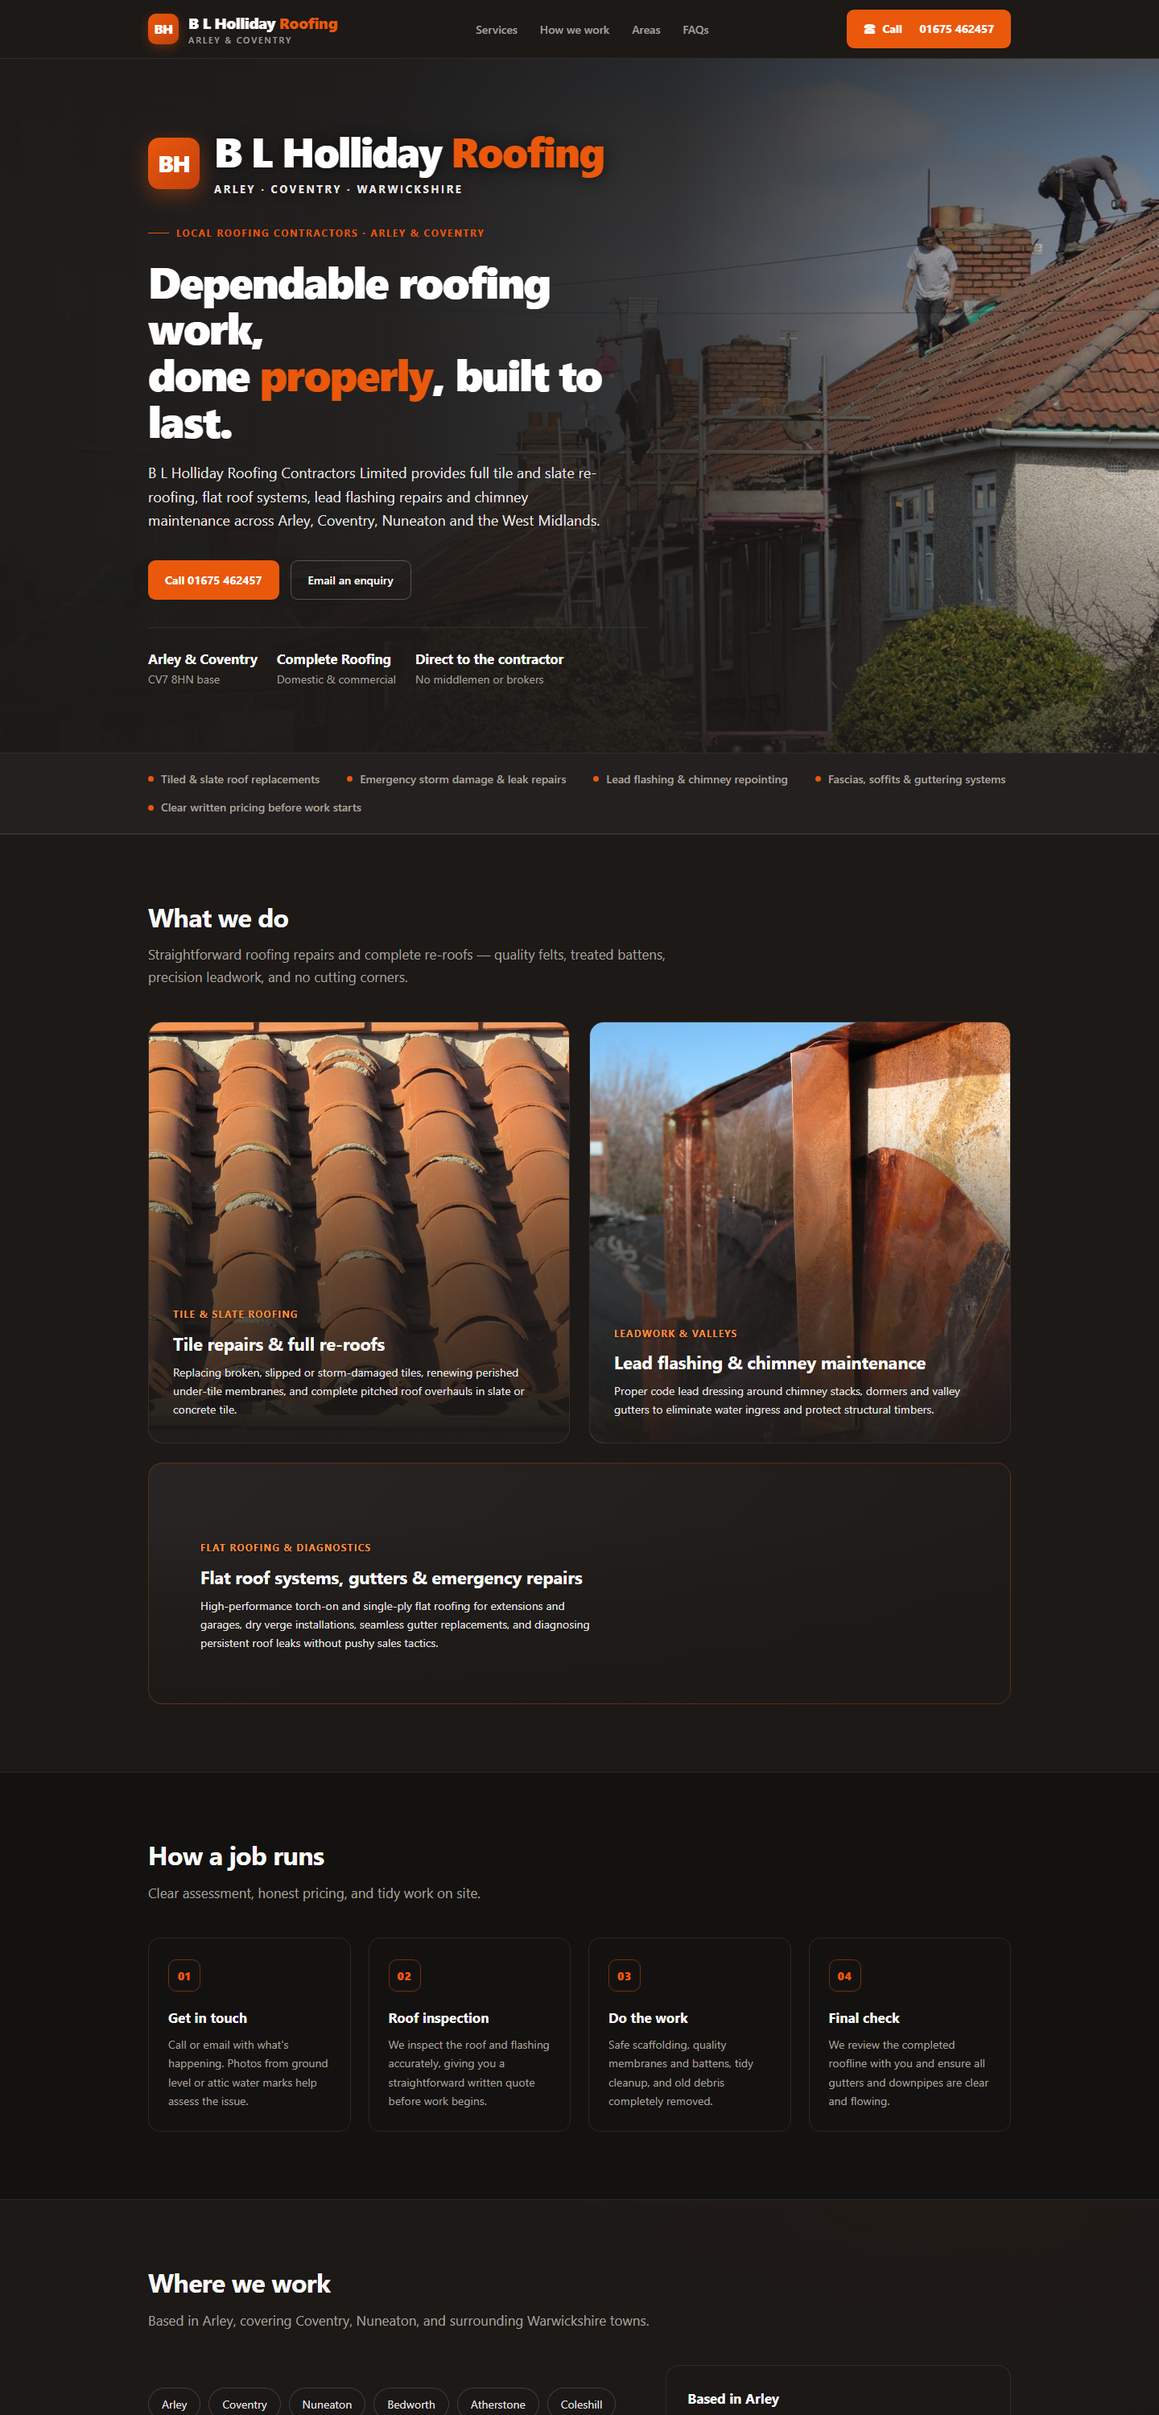
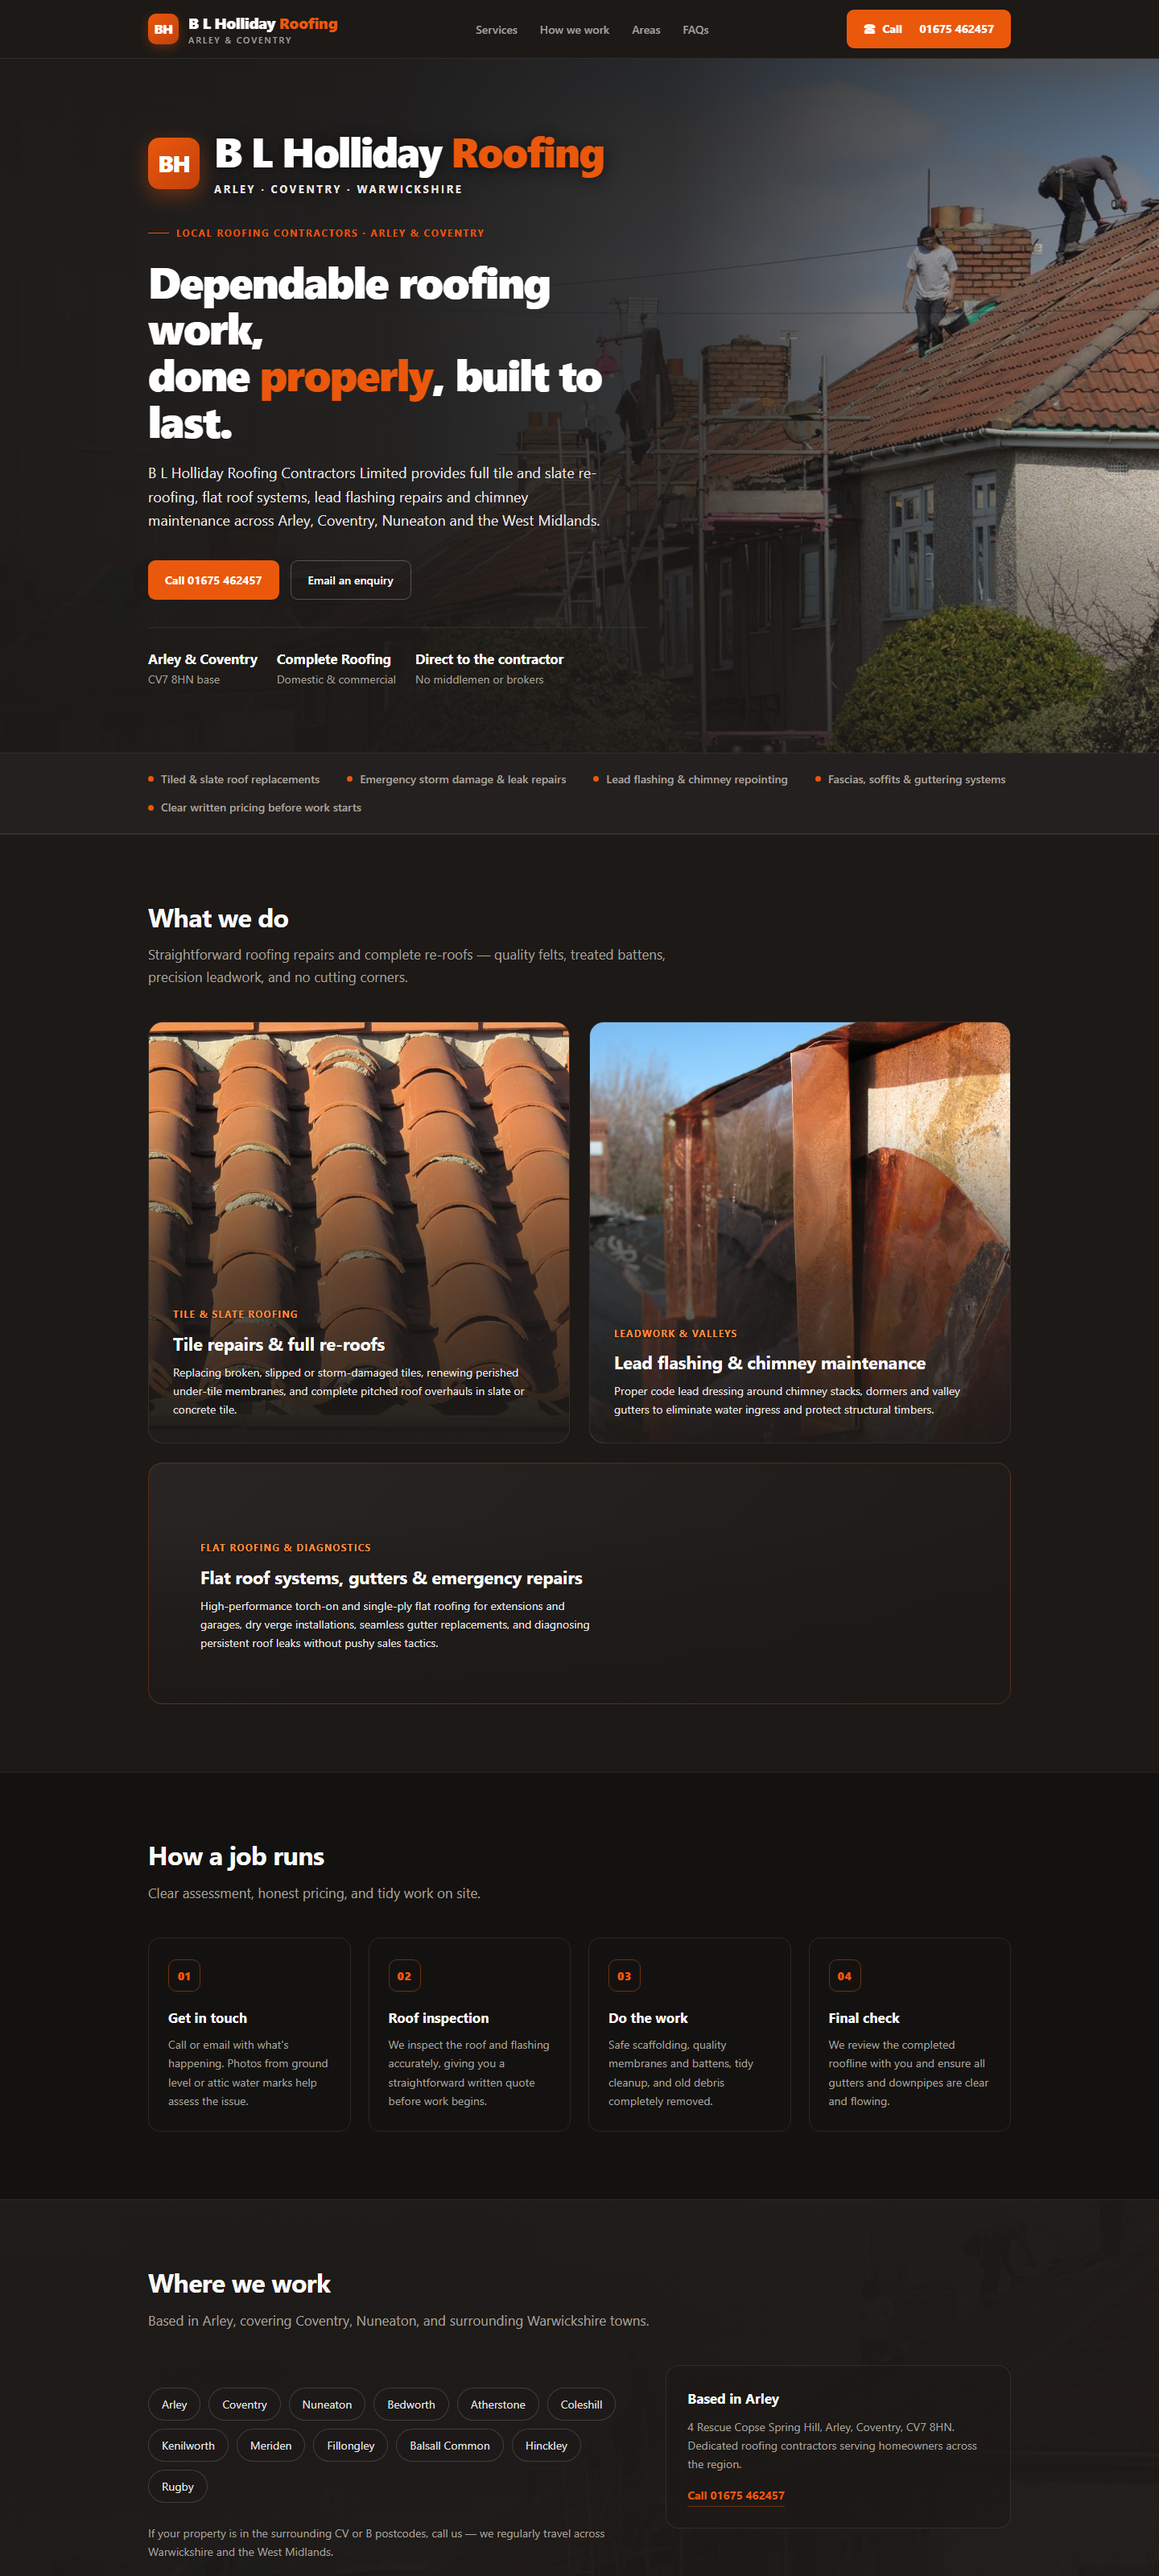
style(ambush): restore signature faded photo background with radial dark overlay across coverage sections

diff --git a/bl-holliday-roofing-20261116/index.html b/bl-holliday-roofing-20261116/index.html
@@ -103,9 +103,9 @@ h2{font-size:clamp(1.6rem,3.2vw,2rem);line-height:1.15;letter-spacing:-.02em;mar
 .step h3{font-size:1.0625rem;font-weight:700;margin-bottom:8px}
 .step p{color:var(--muted);font-size:var(--fs-small)}
 
-/* ---------- COVERAGE ---------- */
-.coverage{position:relative;isolation:isolate;overflow:hidden}
-.coverage:before{content:"";position:absolute;inset:0;z-index:-2;background:radial-gradient(1200px 520px at 78% 0%,rgba(234,88,12,.12),transparent 62%),linear-gradient(180deg,#1C1917,#141210)}
+/* ---------- COVERAGE : faded photo behind whole section ---------- */
+.coverage{position:relative;isolation:isolate;overflow:hidden;border-top:1px solid var(--border)}
+.coverage:before{content:"";position:absolute;inset:0;z-index:-2;background-image:url("./assets/hero.jpg");background-size:cover;background-position:center 40%;opacity:.18}
 .coverage:after{content:"";position:absolute;inset:0;z-index:-1;background:radial-gradient(120% 90% at 20% 40%,rgba(28,25,23,.97) 0%,rgba(28,25,23,.88) 45%,rgba(28,25,23,.74) 100%)}
 .areas{display:flex;flex-wrap:wrap;gap:10px;margin-top:28px;list-style:none}
 .areas li{border:1px solid rgba(255,255,255,.16);border-radius:99px;padding:8px 16px;font-size:var(--fs-small);color:#E7E5E4;background:rgba(28,25,23,.46)}

diff --git a/dbritain-home-improvements-20261116/index.html b/dbritain-home-improvements-20261116/index.html
@@ -103,9 +103,9 @@ h2{font-size:clamp(1.6rem,3.2vw,2rem);line-height:1.15;letter-spacing:-.02em;mar
 .step h3{font-size:1.0625rem;font-weight:700;margin-bottom:8px}
 .step p{color:var(--muted);font-size:var(--fs-small)}
 
-/* ---------- COVERAGE ---------- */
-.coverage{position:relative;isolation:isolate;overflow:hidden}
-.coverage:before{content:"";position:absolute;inset:0;z-index:-2;background:radial-gradient(1200px 520px at 78% 0%,rgba(2,132,199,.12),transparent 62%),linear-gradient(180deg,#0F172A,#080D18)}
+/* ---------- COVERAGE : faded photo behind whole section ---------- */
+.coverage{position:relative;isolation:isolate;overflow:hidden;border-top:1px solid var(--border)}
+.coverage:before{content:"";position:absolute;inset:0;z-index:-2;background-image:url("./assets/hero.jpg");background-size:cover;background-position:center 35%;opacity:.18}
 .coverage:after{content:"";position:absolute;inset:0;z-index:-1;background:radial-gradient(120% 90% at 20% 40%,rgba(15,23,42,.97) 0%,rgba(15,23,42,.88) 45%,rgba(15,23,42,.74) 100%)}
 .areas{display:flex;flex-wrap:wrap;gap:10px;margin-top:28px;list-style:none}
 .areas li{border:1px solid rgba(255,255,255,.16);border-radius:99px;padding:8px 16px;font-size:var(--fs-small);color:#CBD5E1;background:rgba(15,23,42,.46)}

diff --git a/heat-zone-20261116/index.html b/heat-zone-20261116/index.html
@@ -103,9 +103,9 @@ h2{font-size:clamp(1.6rem,3.2vw,2rem);line-height:1.15;letter-spacing:-.02em;mar
 .step h3{font-size:1.0625rem;font-weight:700;margin-bottom:8px}
 .step p{color:var(--muted);font-size:var(--fs-small)}
 
-/* ---------- COVERAGE ---------- */
-.coverage{position:relative;isolation:isolate;overflow:hidden}
-.coverage:before{content:"";position:absolute;inset:0;z-index:-2;background:radial-gradient(1200px 520px at 78% 0%,rgba(239,68,68,.12),transparent 62%),linear-gradient(180deg,#0F172A,#090E17)}
+/* ---------- COVERAGE : faded photo behind whole section ---------- */
+.coverage{position:relative;isolation:isolate;overflow:hidden;border-top:1px solid var(--border)}
+.coverage:before{content:"";position:absolute;inset:0;z-index:-2;background-image:url("./assets/hero.jpg");background-size:cover;background-position:center 40%;opacity:.18}
 .coverage:after{content:"";position:absolute;inset:0;z-index:-1;background:radial-gradient(120% 90% at 20% 40%,rgba(15,23,42,.97) 0%,rgba(15,23,42,.88) 45%,rgba(15,23,42,.74) 100%)}
 .areas{display:flex;flex-wrap:wrap;gap:10px;margin-top:28px;list-style:none}
 .areas li{border:1px solid rgba(255,255,255,.16);border-radius:99px;padding:8px 16px;font-size:var(--fs-small);color:#CBD5E1;background:rgba(15,23,42,.46)}

diff --git a/walsall-plumbing-and-gas-20261116/index.html b/walsall-plumbing-and-gas-20261116/index.html
@@ -96,9 +96,9 @@ section{padding:84px 0}
 .step h3{font-size:1.0625rem;font-weight:700;margin-bottom:8px}
 .step p{color:var(--muted);font-size:var(--fs-small)}
 
-/* ---------- COVERAGE : faded wash, no photo ---------- */
-.coverage{position:relative;isolation:isolate;overflow:hidden}
-.coverage:before{content:"";position:absolute;inset:0;z-index:-2;background:radial-gradient(1200px 520px at 78% 0%,rgba(59,130,246,.12),transparent 62%),linear-gradient(180deg,#0B1329,#080E1F)}
+/* ---------- COVERAGE : faded photo behind whole section ---------- */
+.coverage{position:relative;isolation:isolate;overflow:hidden;border-top:1px solid var(--border)}
+.coverage:before{content:"";position:absolute;inset:0;z-index:-2;background-image:url("./assets/hero.jpg");background-size:cover;background-position:center 45%;opacity:.18}
 .coverage:after{content:"";position:absolute;inset:0;z-index:-1;background:radial-gradient(120% 90% at 20% 40%,rgba(11,19,41,.97) 0%,rgba(11,19,41,.88) 45%,rgba(11,19,41,.74) 100%)}
 .areas{display:flex;flex-wrap:wrap;gap:10px;margin-top:28px;list-style:none}
 .areas li{border:1px solid rgba(255,255,255,.16);border-radius:99px;padding:8px 16px;font-size:var(--fs-small);color:#D3DBE6;background:rgba(11,19,41,.42)}
